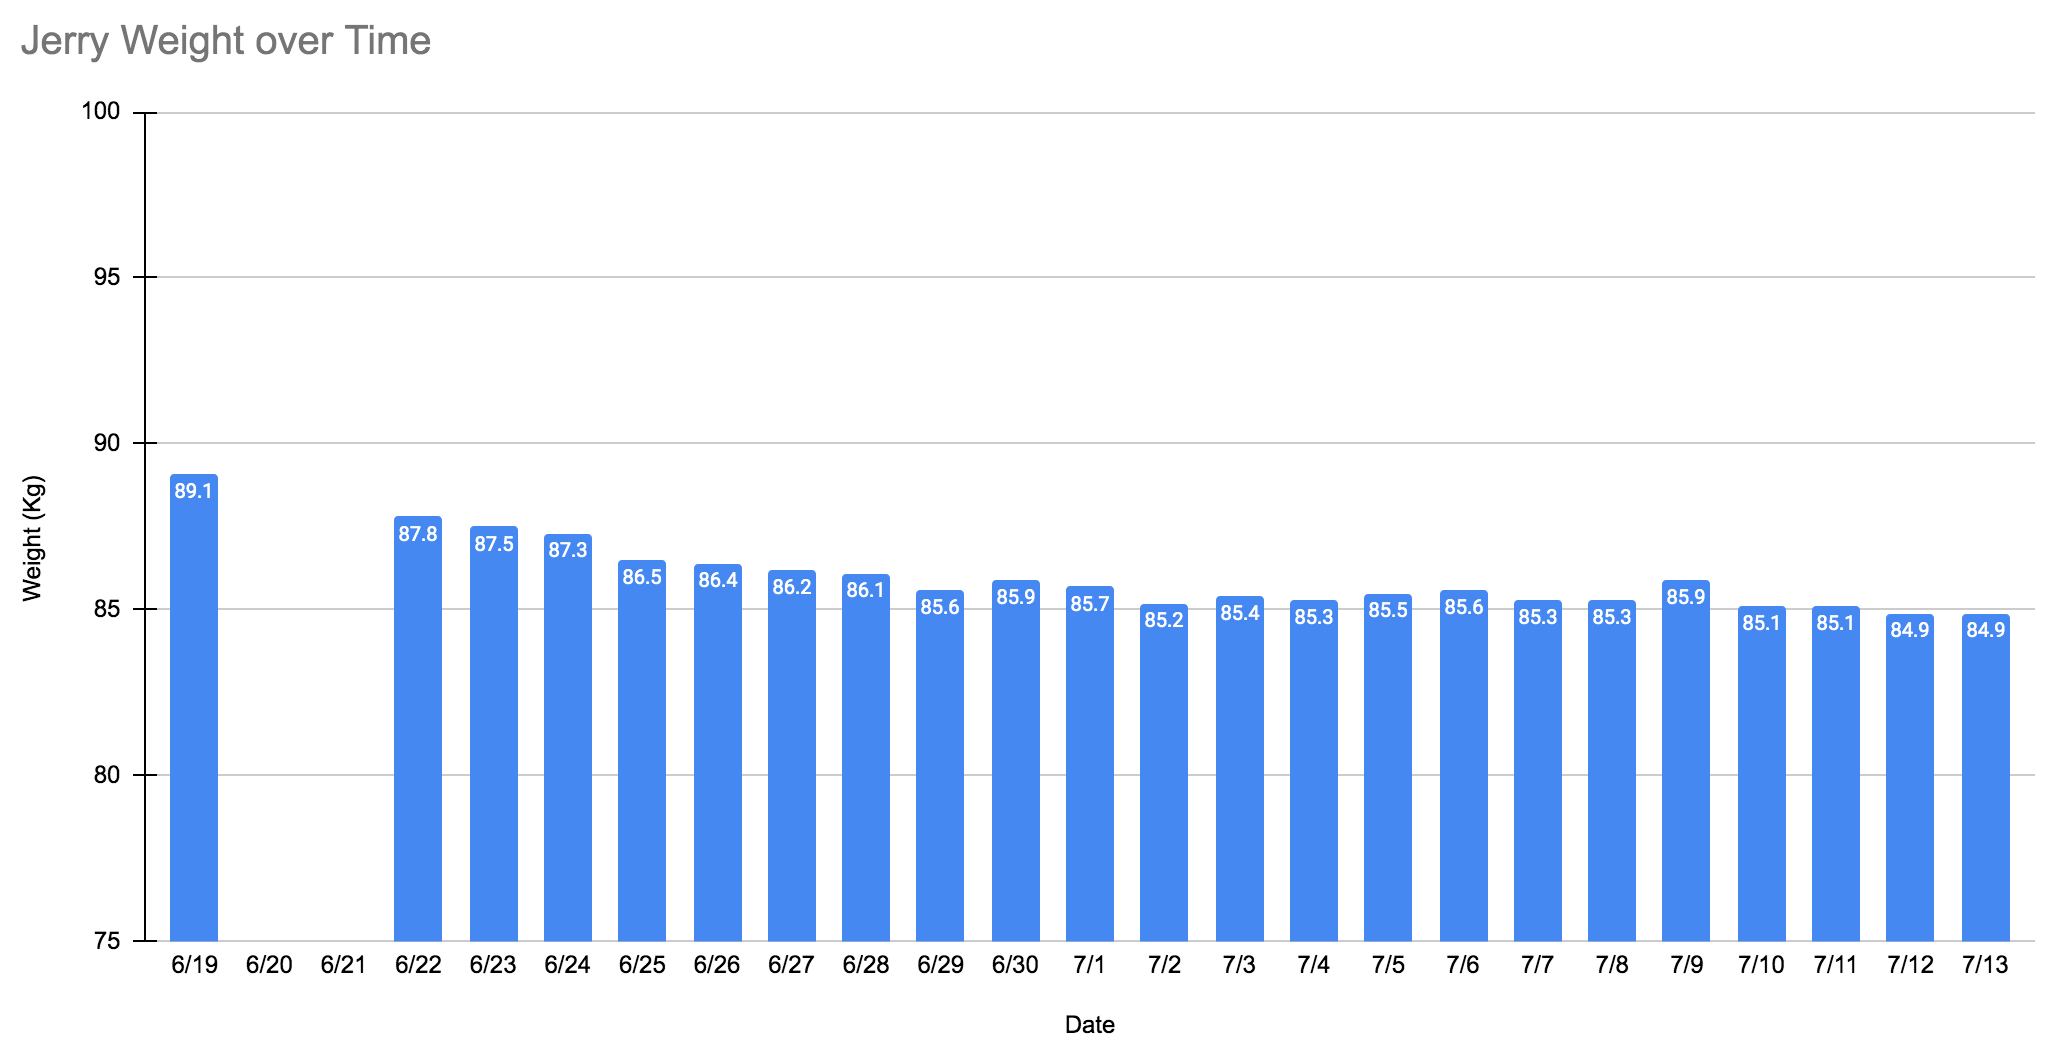
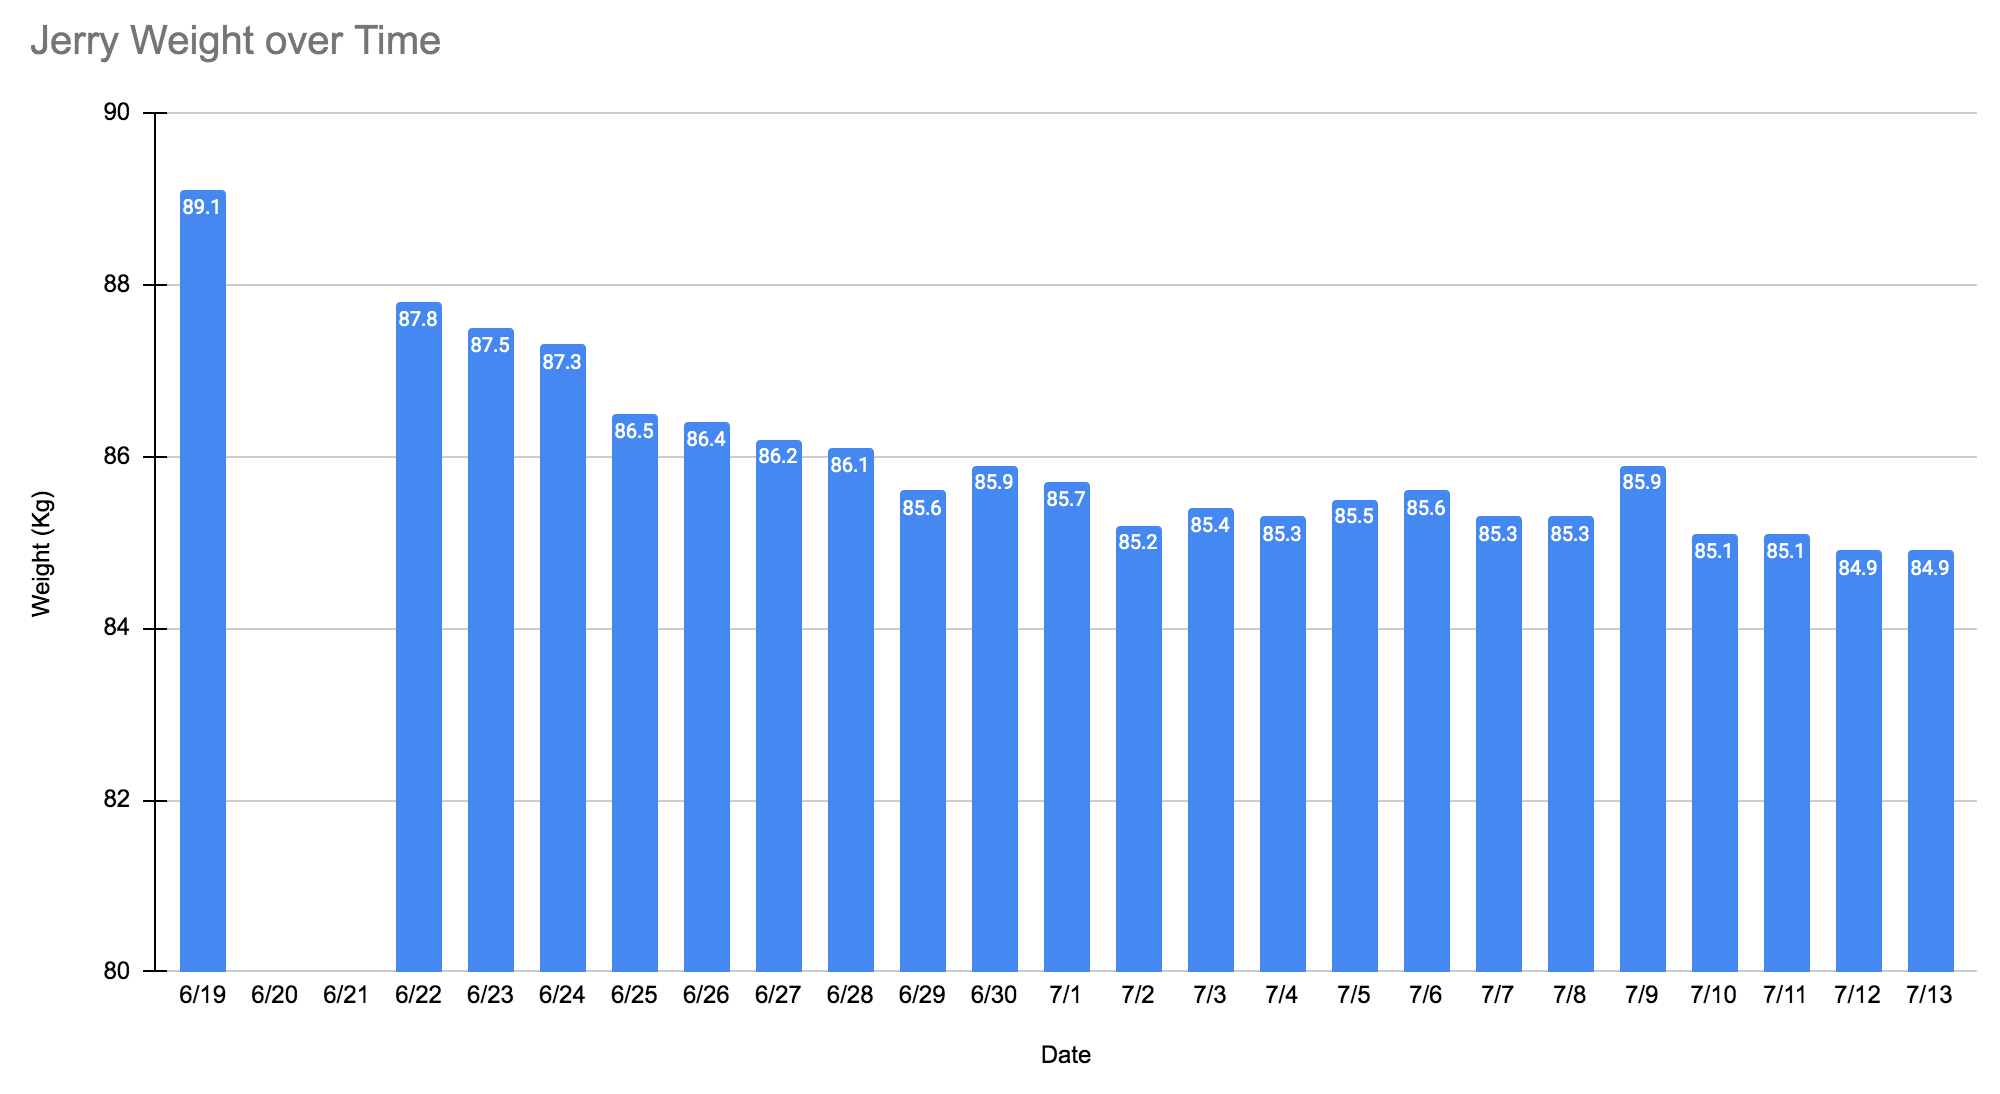
final changes to content. juice added as post

diff --git a/_posts/Parents-Visit.md b/_posts/Parents-Visit.md
@@ -62,7 +62,7 @@ Here are examples of my dad's "standard" food.
 | :---------------------------------------------------------------------: |
 | _Sausage McMuffin, Hash Brown, Green Bean Soup, Shrimp and Bean, Fruit_ |
 
-Most days a significant portion (>50%) of my dad's food was composed of carbohydrates from fruit, milk, and bread (bun).
+Most days a significant portion (>50%) of my dad's meals were composed of high-sugar food like noodles, breads, flour, and high-sugar fruits.
 
 ### Week 1 (June 18-June 25)
 
@@ -82,15 +82,11 @@ Week 1 started with a trip to costco together. The highlights included pan-fried
 
 The focus was to **shift away from carbohydrates-heavy foods and eat 80% protein and veggies.** Luckily a lot of the dishes and sides my parents liked were compatible for this food plan so it wasn't too hard to adjust the menu and cooking. For example Zha Jiang Mian (Black bean sauce noodle) is something they ate regularly and had the sauce for. We substituted the usual noodles with shirataki noodles (made from konjac yam, contains minimal digestible carbohydrates). My mom also has a stash of fake meat products (mostly soy protein) that we incorporated into the meals.
 
-| ![](/docs/assets/black_bean_sauce.jpg) |
-| :------------------------------------: |
-|           _Black Bean Sauce_           |
-
 An added challenge was my dad eats meat but my mom is vegan. So we prepared vegan and nonvegan versions of dishes. You can see a lot of side dishes (and variety) in the pictures.
 
-We also committed to go on a walk every evening. We talked about a range of topics from iphones + technology, diabetes and insulin pathways, Popeyes fried chicken, traveling, you name it.
+We also committed to go on a walk every evening after dinner. We talked about a range of topics from iphones + technology, diabetes and insulin pathways, Popeyes fried chicken, traveling, you name it.
 
-There were a moments of low energy (likely due to the adjustment period and low blood sugar), but my parents remained very upbeat. Dad lost 3 kg in the first week! GJ dad!
+There were a moments of low energy (likely due to the adjustment period and low blood sugar), but my parents remained very upbeat. **Dad lost 6.6 lbs (3 kg) in the first week!** GJ dad!
 
 ### Week 2 (June 25-July 02)
 
@@ -104,9 +100,9 @@ Week 2 had more variety - highlights were Sop Buntut (Indonesian soup with spare
 | :--------------------------------------: |
 |      _Curry Veggies, Eggs, Shrimp_       |
 
-|                ![](/docs/assets/zha_jiang_mien_eggs.jpg)                 |
-| :----------------------------------------------------------------------: |
-| _Zha Jiang Mien (Black Soybean Sauce Noodles), Fried Egg, Cabbage, Tofu_ |
+|                     ![](/docs/assets/zha_jiang_mien_eggs.jpg)                      |
+| :--------------------------------------------------------------------------------: |
+| _Zha Jiang Mien (Black Soybean Sauce Shirataki Noodles), Fried Egg, Cabbage, Tofu_ |
 
 | ![](/docs/assets/basil_mushrooms.jpg) |
 | :-----------------------------------: |
@@ -132,11 +128,13 @@ By week 3 the parents had the hang of things - Cynthia and I finished our stayov
 
 Every morning my dad would send a picture in our group chat showing off his weight displayed on the digital scale. It became the thing he was looking forward to the most each day because of the steady progress. I implemented a tracker on google sheets to log weight and exercise activity. With the aid of the bar chart, progress was easy to visualize.
 
+##Zoom in weight. may be makes lbs
+
 | ![](/docs/assets/weight_chart_zoom_in.png) |
 | :----------------------------------------: |
 |             _Weight over Time_             |
 
-After three weeks of commitment to the plan with home cooked meals mostly every day it was time to celebrate. It was a great bonding time, and **dad lost over 4 kg in 3 weeks.** Here we are eating out in San Jose:
+After three weeks of commitment to the plan with home cooked meals mostly every day it was time to celebrate. It was a great bonding time, and **dad lost over 8.8 lbs (4 kg) in 3 weeks.** Here we are eating out in San Jose:
 
 | ![](/docs/assets/eating_out_2.jpg) |
 | :--------------------------------: |
@@ -144,13 +142,13 @@ After three weeks of commitment to the plan with home cooked meals mostly every 
 
 ### Aftermath (August)
 
-Dad continued to provide updates on his weight. My parents took parts of the 3 week program and continued on with it. They continued to be mindful of their food and limit carbs and went on walks nearly every day. It was even more exciting to see my dad continue to lose weight.
+Dad continued to provide updates on his weight. My parents took parts of the 3 week program and continued on with it. For example, fruits were introduced but they continued to limit breads and grains, and went on walks nearly every day. My dad noticed stomach aches directly after drinking the morning shake, so we cut that out (We have a hunch it was due to stomach's ability to process the high fiber amounts). Overall, It was even more exciting to see my dad continue to lose weight as a continuation of the plan.
 
 | ![](/docs/assets/weight_chart_zoom_out.png) |
 | :-----------------------------------------: |
 |               _Weight Chart_                |
 
-Approximately a month after the program, my dad was <82 kg, over 7 kg lower than the start (2 months ago)!
+Approximately a month after the program, my dad was under 82 kg, equating to **15.4 lbs (7 kg) loss in 2 months!!**
 
 We also wanted to help my parents expand their exercise beyond walking. We decided to go to the park nearby to demonstrate some stretching and exercises (led by Cynthia).
 
@@ -162,7 +160,7 @@ We also wanted to help my parents expand their exercise beyond walking. We decid
 
 In retrospect this was a very successful visit and positive experience. Cynthia and I learned a great deal and got to spend quality time with my parents. My mom and dad built healthier habits, and continued to follow through even after the three week plan. On paper, the plan of limiting carbs and regular exercise was backed by science but what made it effective was getting the parents involved in process, the conversations during dinner and walks, and ultimately our presence and support.
 
-For example, Dad came with us to shop and purchase food. The act of us cooking and preparing meals for 2 weeks straight allowed him plenty of chances to watch, and even critique us (lol).
+For example, Dad came with us to shop and purchase food. The act of us cooking and preparing meals allowed him plenty of chances to watch, and even critique us (lol).
 
 During the time parents had lots of questions. We had talks about nutrition labels, and what was considered nutritious and what was not (mostly processed sugars). We explained the mechanism in which the body processed sugar and what leads to diabetes (Link). Cynthia is the expert on health and has a lot of knowledge. My role was to support the conversation and translate.
 
@@ -172,6 +170,8 @@ All in all it was a very positive experience and I'm confident we were able to b
 
 Some good resources:
 
-[Harvard School of Public Health](https://www.hsph.harvard.edu/nutritionsource/carbohydrates/carbohydrates-and-blood-sugar/)
-[The Carbohydrate-Insulin Model of Obesity](https://www.ncbi.nlm.nih.gov/pmc/articles/PMC6082688/)
-[The Diabetes Code](https://www.amazon.com/Diabetes-Code-Prevent-Reverse-Naturally/dp/1771642653)
+- [Harvard School of Public Health](https://www.hsph.harvard.edu/nutritionsource/carbohydrates/carbohydrates-and-blood-sugar/)
+
+- [The Carbohydrate-Insulin Model of Obesity](https://www.ncbi.nlm.nih.gov/pmc/articles/PMC6082688/)
+
+- [The Diabetes Code](https://www.amazon.com/Diabetes-Code-Prevent-Reverse-Naturally/dp/1771642653)

diff --git a/index.md b/index.md
@@ -1,8 +1,8 @@
-I do fermentation/process engineering as my job. I study data science on the side.
+I do fermentation/process engineering for my job. I study data science on the side.
 
 I like experimenting, cooking, and playing music.
 
-I plan to post things related to health, travel, as well as random projects.
+I post things related to health, travel, and personal projects.
 
 Here is a picture of me on a backpacking trip at Glacier National Park:
 

diff --git a/_posts/Shake_Recipe.md b/_posts/Shake_Recipe.md
@@ -1,0 +1,9 @@
+## Berry Shake
+
+- 4 tbsp almond butter
+- 4 tbsp cocoa powder
+- 4 tbsp chia seeds
+- 2 cups unsweetened almond milk (oat milk, coconut milk ok)
+- 2 cups water
+- 2 cups power greens blend (spinach, chard, kale). I roughly do 4 handfuls.
+- 2 cups frozen berries. I roughly do 4 handfuls.
